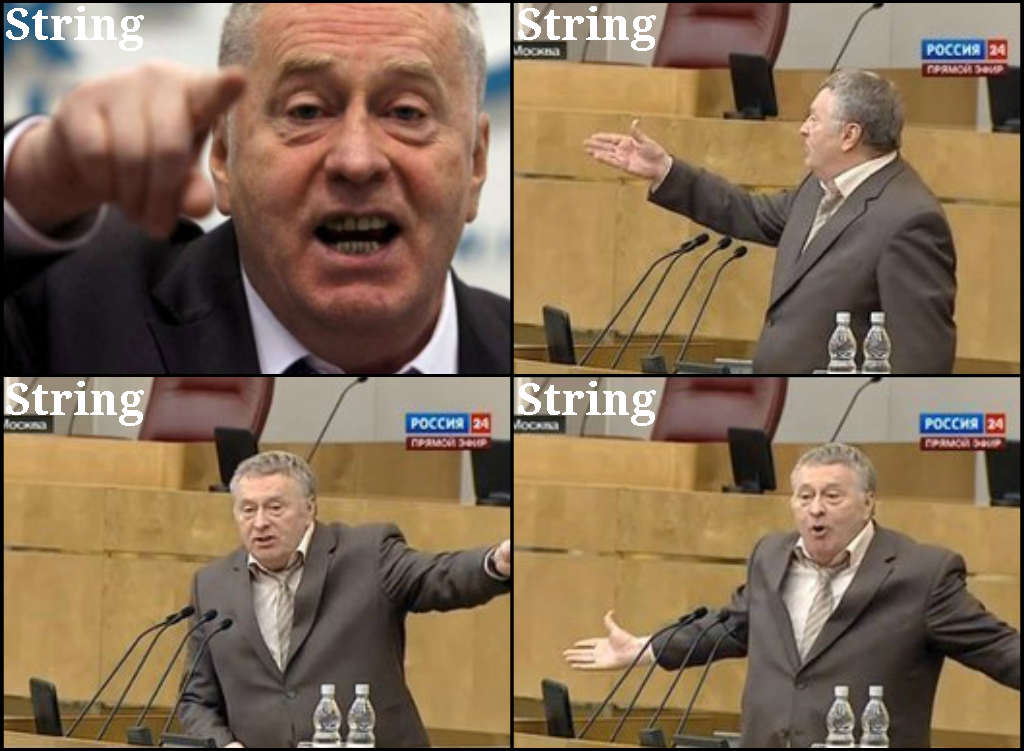
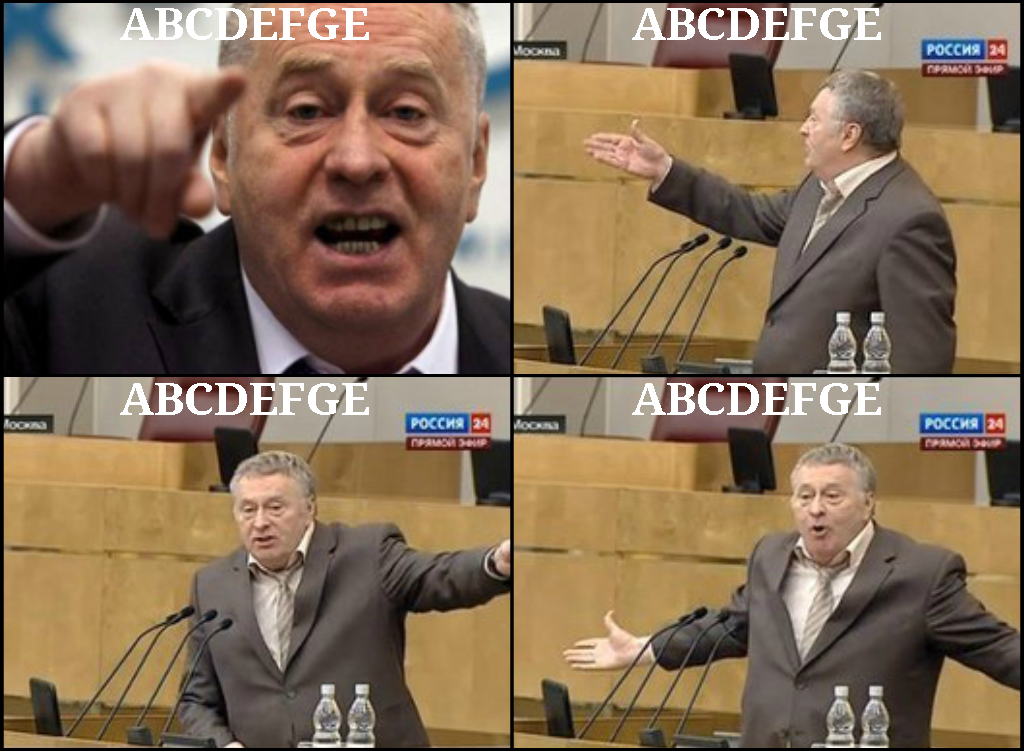
sc

diff --git a/src/main/java/com/memeGenerator/MemeGenerator.java b/src/main/java/com/memeGenerator/MemeGenerator.java
@@ -18,7 +18,7 @@ public class MemeGenerator extends JPanel {
     private static final String IMAGE = "original.png";
     private static final String NEW_IMAGE = "meme.png";
     private static final String EXTENSION = "png";
-    private static final String STRING = "String";
+    private static final String STRING = "ABCDEFGE";
     private static final String FONT = "Serif";
     private static final int FONT_SIZE = 45;
     private static final int UPPER_LEFT_X = 5;
@@ -49,7 +49,10 @@ public class MemeGenerator extends JPanel {
         return bufferedImage;
     }
     private static Graphics2D putStringOntoImage(Graphics2D graphics2D, String text, int x, int y) {
-        graphics2D.drawString(text, x, y);
+        int width = -350;
+        int textLength = text.length();
+        System.out.print(textLength);
+        graphics2D.drawString(text, x - (width + (textLength*15)) / 2, y);
         return graphics2D;
     }
     private static void writeImage(RenderedImage image) {
